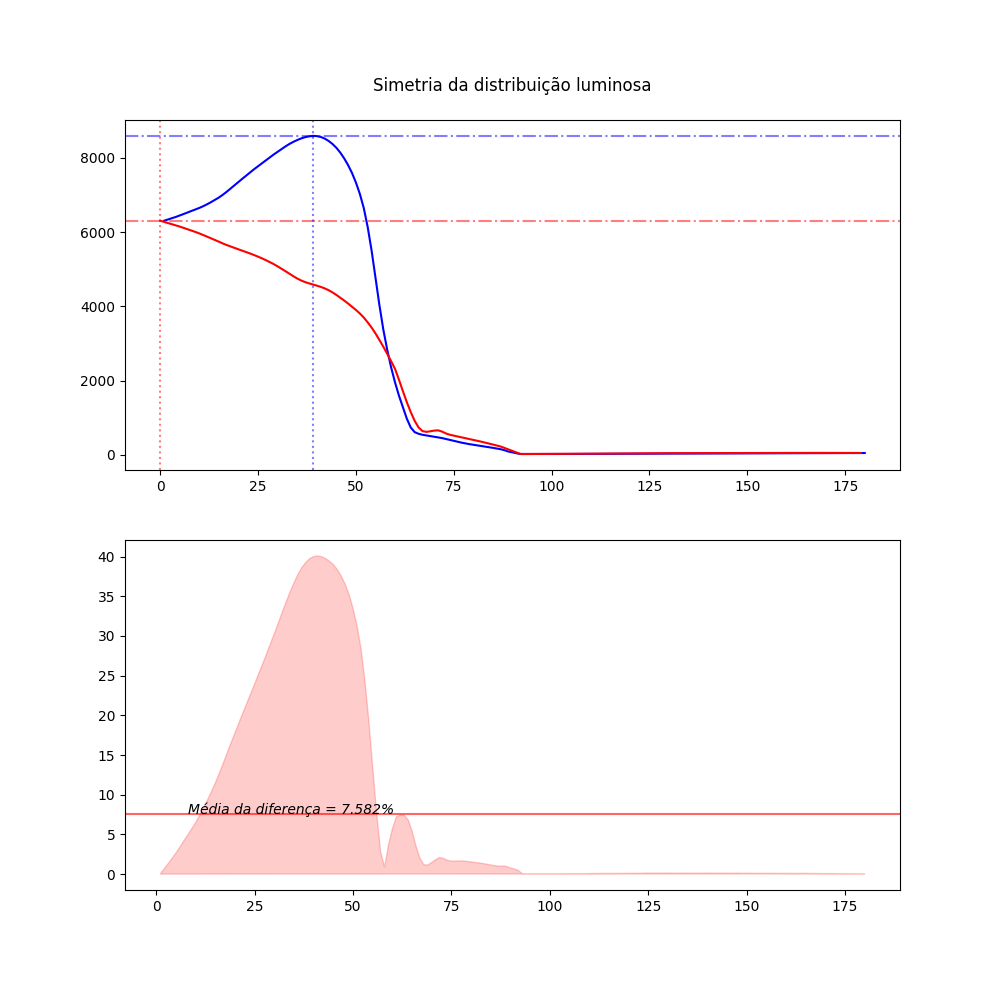
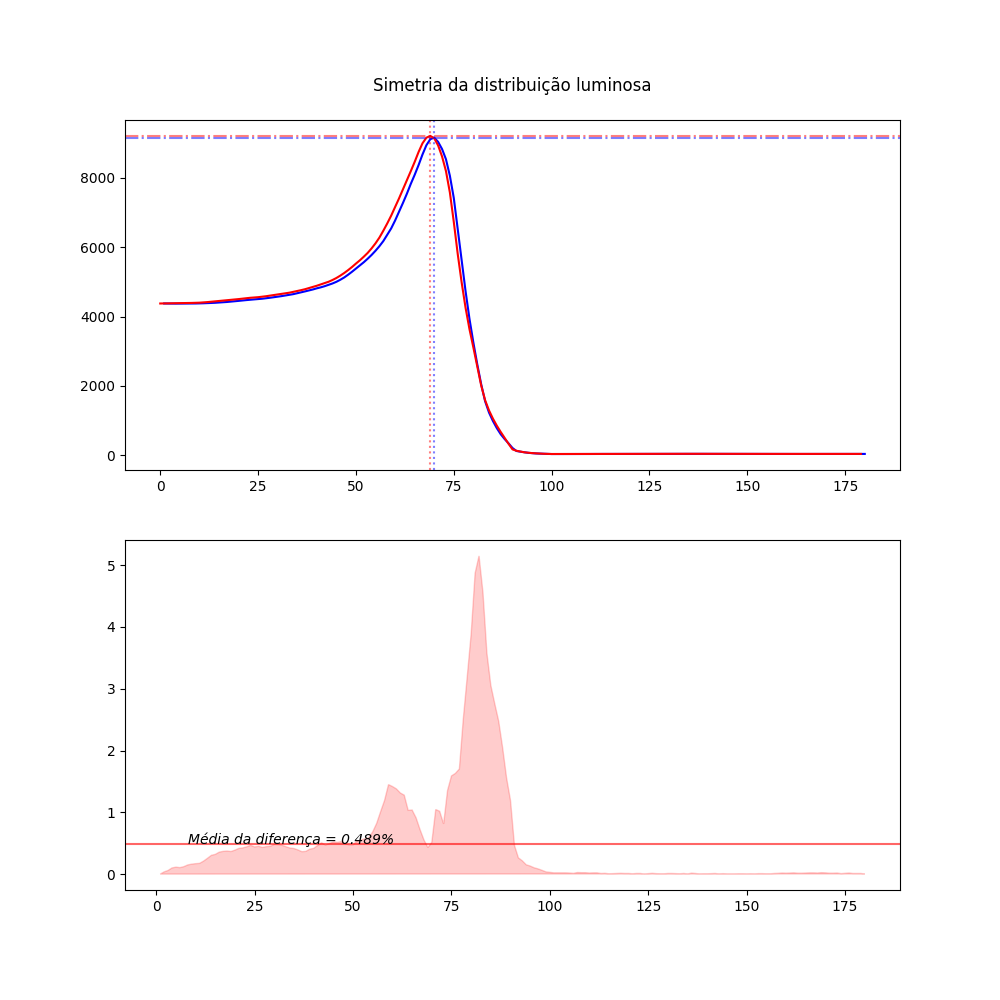
salva imagens

diff --git a/VisualIES modify.py b/VisualIES modify.py
@@ -4,7 +4,7 @@ import math
 import statistics as st
 
 filt = 0.1
-angulo = 0
+angulo = 6
 page = './out/'
 
 
@@ -169,7 +169,7 @@ class IES(object):
         return self.dic
 
 
-ies1 = IES("m1.ies")
+ies1 = IES("mp.ies")
 
 Valplt = coord(ies1.Cd(), angulo)  # valor em Cd para cada angulo
 
@@ -206,8 +206,12 @@ plt.fill(rad(Valplt), Valplt, '.r', alpha=0.2)
 plt.quiver(0, 0, maxme[1]*np.pi/180-np.pi/2, maxme[0], color='blue',
            angles="xy", scale_units='xy', scale=1.)
 
-plt.quiver(0, 0, meio*np.pi/180-np.pi/2, maxme[0], color='g',
+plt.quiver(0, 0, meio*np.pi/180-np.pi/2, (maxme[0]+maxme[0])/2, color='g',
            angles="xy", scale_units='xy', scale=1.)
+
+plt.text((meio+15)*np.pi/180-np.pi/2, (maxme[0]+maxme[0])/4, 'Diferença em graus = ' +
+         str(360-meio)[:5]+" °")
+
 plt.savefig(page+'Distribuição.png')
 # plt.show()
 
